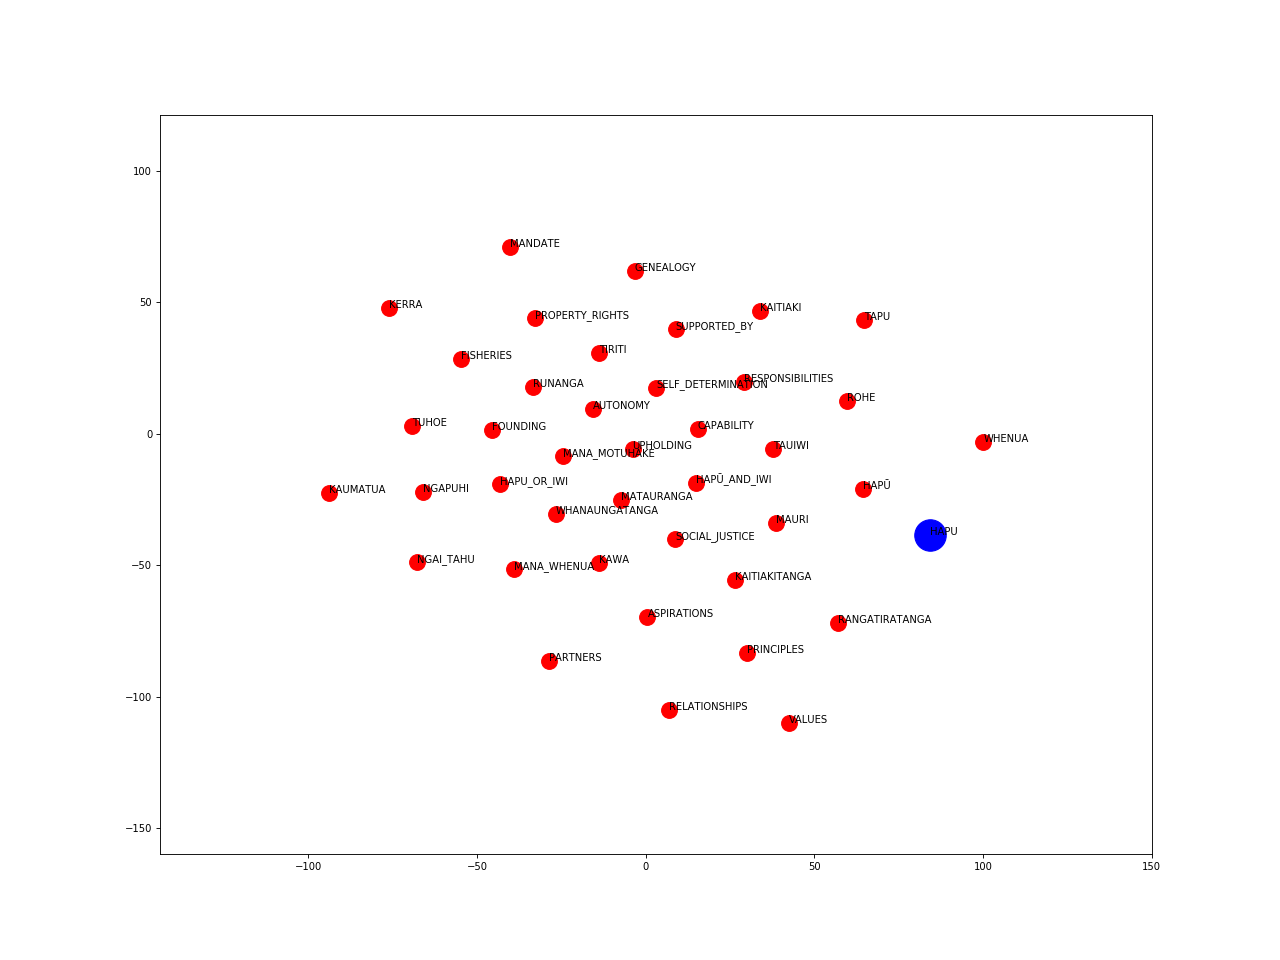
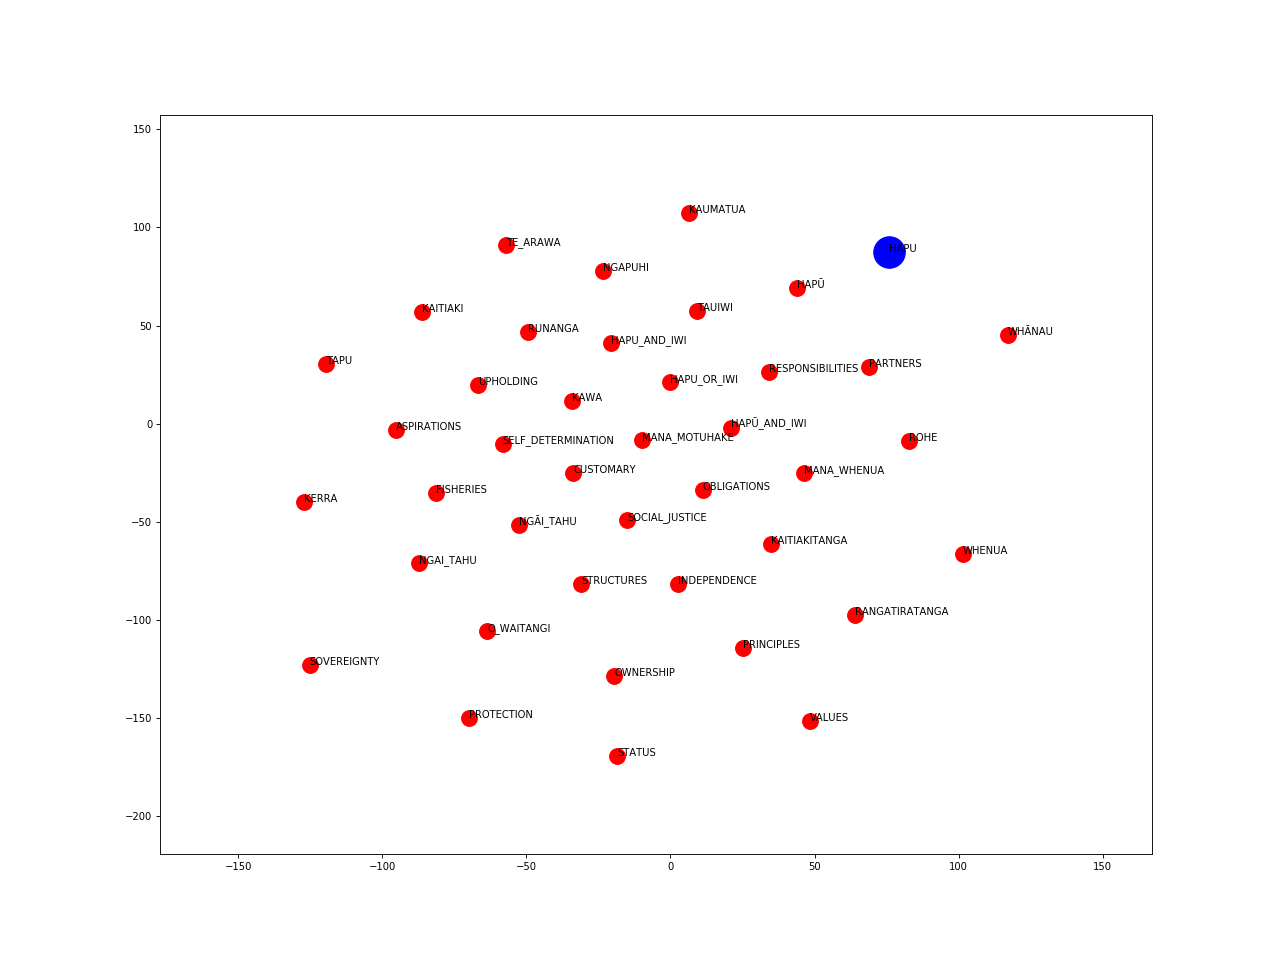
Visualize embeddings

diff --git a/embeddings/functions.py b/embeddings/functions.py
@@ -20,6 +20,7 @@ from .twokenize import tokenizeRawTweetText
 
 import numpy
 import os
+import re
 import matplotlib.pyplot as plt
 from sklearn.manifold import TSNE
 
@@ -93,28 +94,46 @@ def eval_embeddings(model_folder, gold_pairs, target):
     """
     Evaluates word embeddings
     """ 
+    
+    
+    model_folder = 'experiments'
+    gold_pairs = 'data/gold_pairs.csv'
+    
     pairs = pa.read_csv(gold_pairs,sep='\t')
     
     model_files = [i for i in glob.glob(model_folder+'/*.{}'.format("bin"))]
+    
+    
     with open(target, 'a') as out_file:
-        out_file.write("model\tmeadian.rank\n")
+        out_file.write("model\tw_value\td_value\tmedian.rank\n")
     
         for model_file in model_files:    
+            print(model_file)
             model = Word2Vec.load(model_file)
             ranks = []
             for index, row in pairs.iterrows():
                 eng,mao = row['English'], row['Te Reo Maori']
                 if eng in model.wv.vocab and mao in model.wv.vocab:
                     ranks.append(model.wv.rank(eng,mao))
+            
+            try:
+                w_pattern = re.search('-w(.+?)-', model_file)
+                w_value = w_pattern.group(1)
                 
-            out_file.write(model_file+"\t"+str(median(ranks))+"\n")
+                d_pattern = re.search('-d(.+?)\.bin', model_file)
+                d_value = d_pattern.group(1)
+                
+                
+                out_file.write(model_file[:model_file.find('-')]+"\t"+str(w_value)+"\t"+str(d_value)+"\t"+str(median(ranks))+"\n")
+            except:
+                continue
     
   
     
 
 
  
-def t_sne_scatterplot(model_file = "experiments/Word2Vec-w5-d400.bin", words = ['marae','kia_ora','whanau','wahine','hapu','kura','haka'], target = "pics"):
+def t_sne_scatterplot(model_file = "experiments/Word2Vec-w5-d200.bin", words = ['marae','kia_ora','whanau','wahine','hapu','kura','haka','kiwi','whakapapa','kia_kaha','matariki','aroha'], target = "pics"):
     """
     plots word vectors
     """ 
